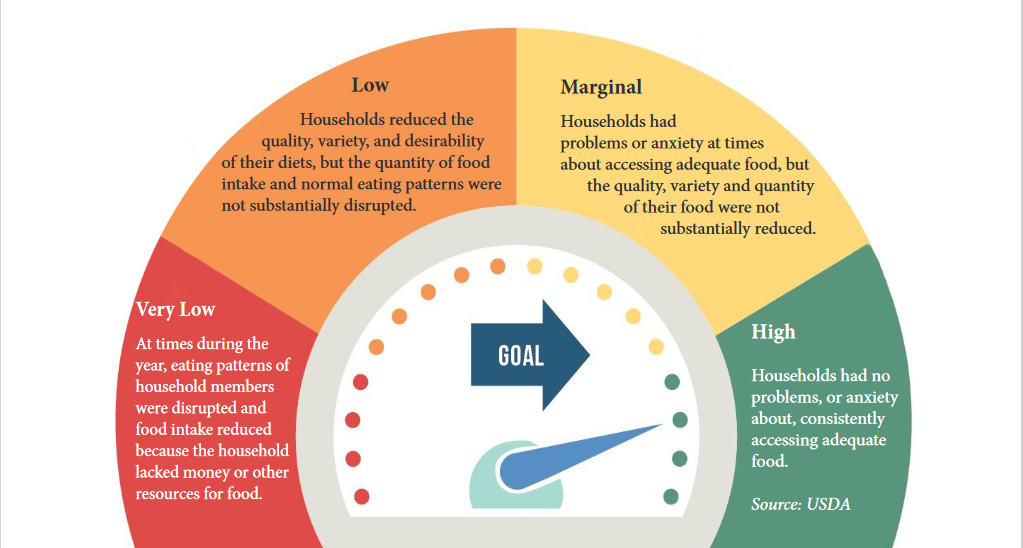
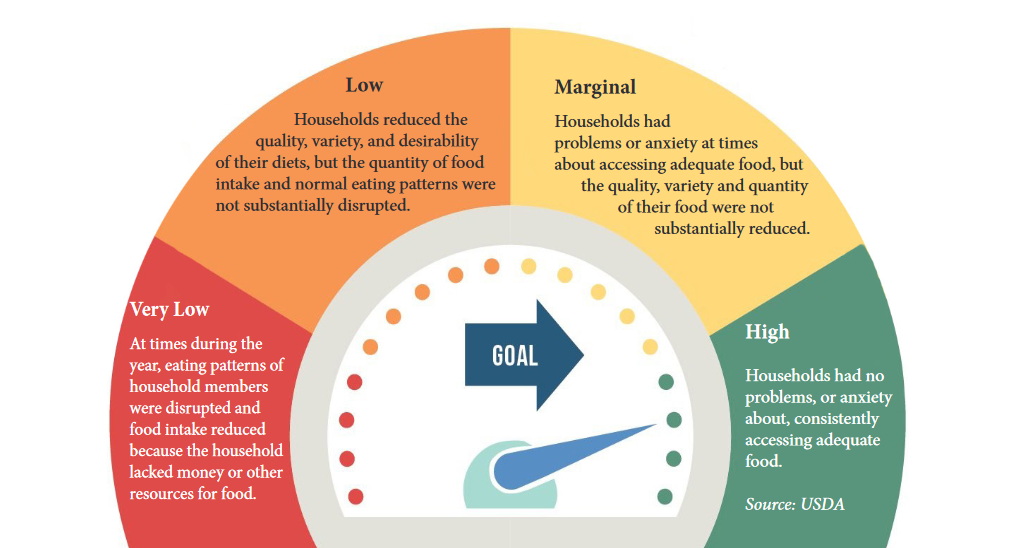
edit pic, fixed button, added buttons for rest of pages

diff --git a/stylesheet/stylesheet.css b/stylesheet/stylesheet.css
@@ -314,20 +314,20 @@ section {
 
 .button {
   position: fixed;
-  bottom: 80px; /* Positioned above the footer */
+  bottom: 30px; /* Adjust distance from bottom as needed */
   right: 30px;
   background: linear-gradient(to right, #0ba78d, #008c9e);
   color: white;
   border: none;
-  border-radius: 50px; /* Rounded corners for a modern look */
+  border-radius: 50px;
   padding: 12px 24px;
   font-size: 16px;
   cursor: pointer;
   box-shadow: 0 4px 10px rgba(0, 0, 0, 0.2);
   transition: transform 0.3s ease, box-shadow 0.3s ease;
-  z-index: 1000; /* Ensure it's above other elements */
-  text-decoration: none; /* Remove underline from link */
-  display: inline-block; /* Allows padding and dimensions */
+  z-index: 1000;
+  text-decoration: none;
+  display: inline-block;
 }
 
 .button:hover {

diff --git a/homepage/homeIndex.html b/homepage/homeIndex.html
@@ -44,6 +44,15 @@
     </section>
   </main>
 
+  <main>
+    <section id="home">
+      <h1> What can you do? </h1>
+      <p> Donating info </p>
+    </section>
+  </main>
+
+  <a href="../calculatorpage/calculatorIndex.html" class="button">Calculate your Food Waste</a>
+
   <footer>
     <p>© 2024 Food Scarcity in Nebraska. All rights reserved.</p>
   </footer>

diff --git a/calculatorpage/calculatorIndex.html b/calculatorpage/calculatorIndex.html
@@ -22,6 +22,9 @@
     <h1 class="main-content">Calculator Page</h1>
     <p class="main-content">Content about the calculator will go here.</p>
     
+
+    <a href="../aboutpage/aboutIndex.html" class="button">Our Purpose</a>
+
     <footer>
       <p>© 2024 Food Scarcity in Nebraska. All rights reserved.</p>
     </footer>

diff --git a/sourcepage/sourceIndex.html b/sourcepage/sourceIndex.html
@@ -22,6 +22,8 @@
     <h1 class="main-content">References</h1>
     <p class="main-content">Insert References Here</p>
     
+    <a href="../index.html" class="button">Review Food Scarcity Information</a>
+
     <footer>
       <p>© 2024 Food Scarcity in Nebraska. All rights reserved.</p>
     </footer>

diff --git a/aboutpage/aboutIndex.html b/aboutpage/aboutIndex.html
@@ -24,6 +24,8 @@
   <h1 class="main-content">About Us</h1>
   <p class="main-content">Insert info Here</p>
 
+  <a href="../contactpage/contactIndex.html" class="button">Questions or Concerns?</a>
+
   <footer>
     <p>© 2024 Food Scarcity in Nebraska. All rights reserved.</p>
   </footer>

diff --git a/contactpage/contactIndex.html b/contactpage/contactIndex.html
@@ -24,6 +24,8 @@
   <h1 class="main-content">Contact Us</h1>
   <p class="main-content">Insert info Here</p>
 
+  <a href="../sourcepage/sourceIndex.html" class="button">Our Sources</a>
+
   <footer>
     <p>© 2024 Food Scarcity in Nebraska. All rights reserved.</p>
   </footer>
